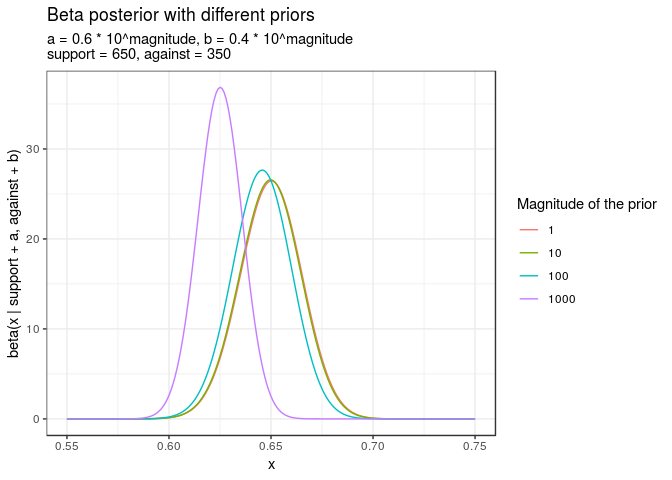
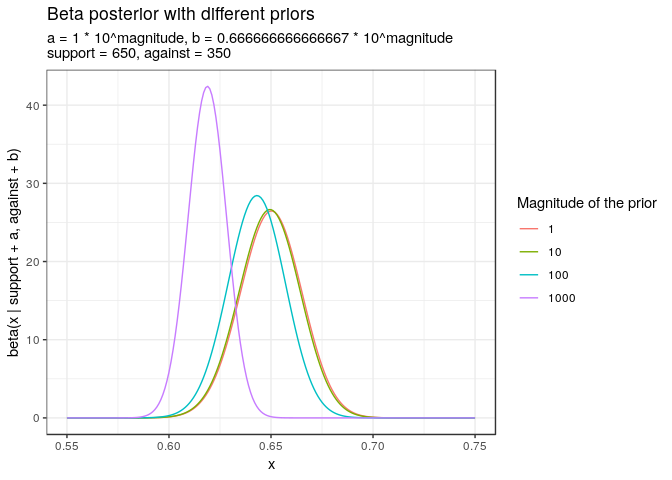
fix thinko

diff --git a/posts/bda3/chapter_02_exercise_09.md b/posts/bda3/chapter_02_exercise_09.md
@@ -1,10 +1,10 @@
 ---
-always_allow_html: True
+always_allow_html: yes
 author: Brian Callander
 date: '2018-08-29'
 output:
   md_document:
-    preserve_yaml: True
+    preserve_yaml: yes
     variant: markdown
 tags: 'bda chapter 2, solutions, bayes, beta, prior sensitivity'
 title: BDA3 Chapter 2 Exercise 9
@@ -21,7 +21,7 @@ some of the exercises on the [book's
 webpage](http://www.stat.columbia.edu/~gelman/book/).
 
 <!--more-->
-<div style="display:none">
+<div>
 
 $\DeclareMathOperator{\dbinomial}{binomial}  \DeclareMathOperator{\dbern}{Bernoulli}  \DeclareMathOperator{\dnorm}{normal}  \DeclareMathOperator{\dgamma}{gamma}  \DeclareMathOperator{\invlogit}{invlogit}  \DeclareMathOperator{\logit}{logit}  \DeclareMathOperator{\dbeta}{beta}$
 
@@ -63,17 +63,34 @@ $$
   \frac{12}{25}\frac{100}{9}
   \\
   &=
-  4,
+  \frac{16}{9},
 \end{align}
 $$
 
-which implies that $\beta = \frac{2}{5}$. Thus $\alpha = \frac{3}{5}$.
-Since both parameters are below 1, we see maxima near 0 and 1.
+which implies that $\beta = \frac{2}{3}$. Thus $\alpha = 1$. Let's check
+we've done the maths correctly.
 
 ``` {.r}
-α <- 3 / 5
-β <- 2 / 5
+α <- 1
+β <- 2 / 3
 
+list(
+  'mean_diff' = 3 / 5 - α / (α + β),
+  'variance_diff' = 9 / 100 - α * β / ((α + β)^2 * (α + β + 1))
+)
+```
+
+    ## $mean_diff
+    ## [1] -1.110223e-16
+    ## 
+    ## $variance_diff
+    ## [1] -1.387779e-17
+
+The value `1e-16` is computer-speak for 0.
+
+Since $\beta < 1 <= \alpha$, we see one maximum at 1.
+
+``` {.r}
 tibble(x = seq(0, 1, 0.001), y = dbeta(x, α, β)) %>% 
   ggplot() +
   aes(x, y) +
@@ -82,7 +99,7 @@ tibble(x = seq(0, 1, 0.001), y = dbeta(x, α, β)) %>%
     x = 'x',
     y = 'beta(x | α, β)',
     title = 'Beta prior with mean 0.3 and standard deviation 0.6',
-    subtitle = str_glue('α = {α}, β = {β}')
+    subtitle = str_glue('α = {α}, β = {signif(β, 3)}')
   )
 ```
 
